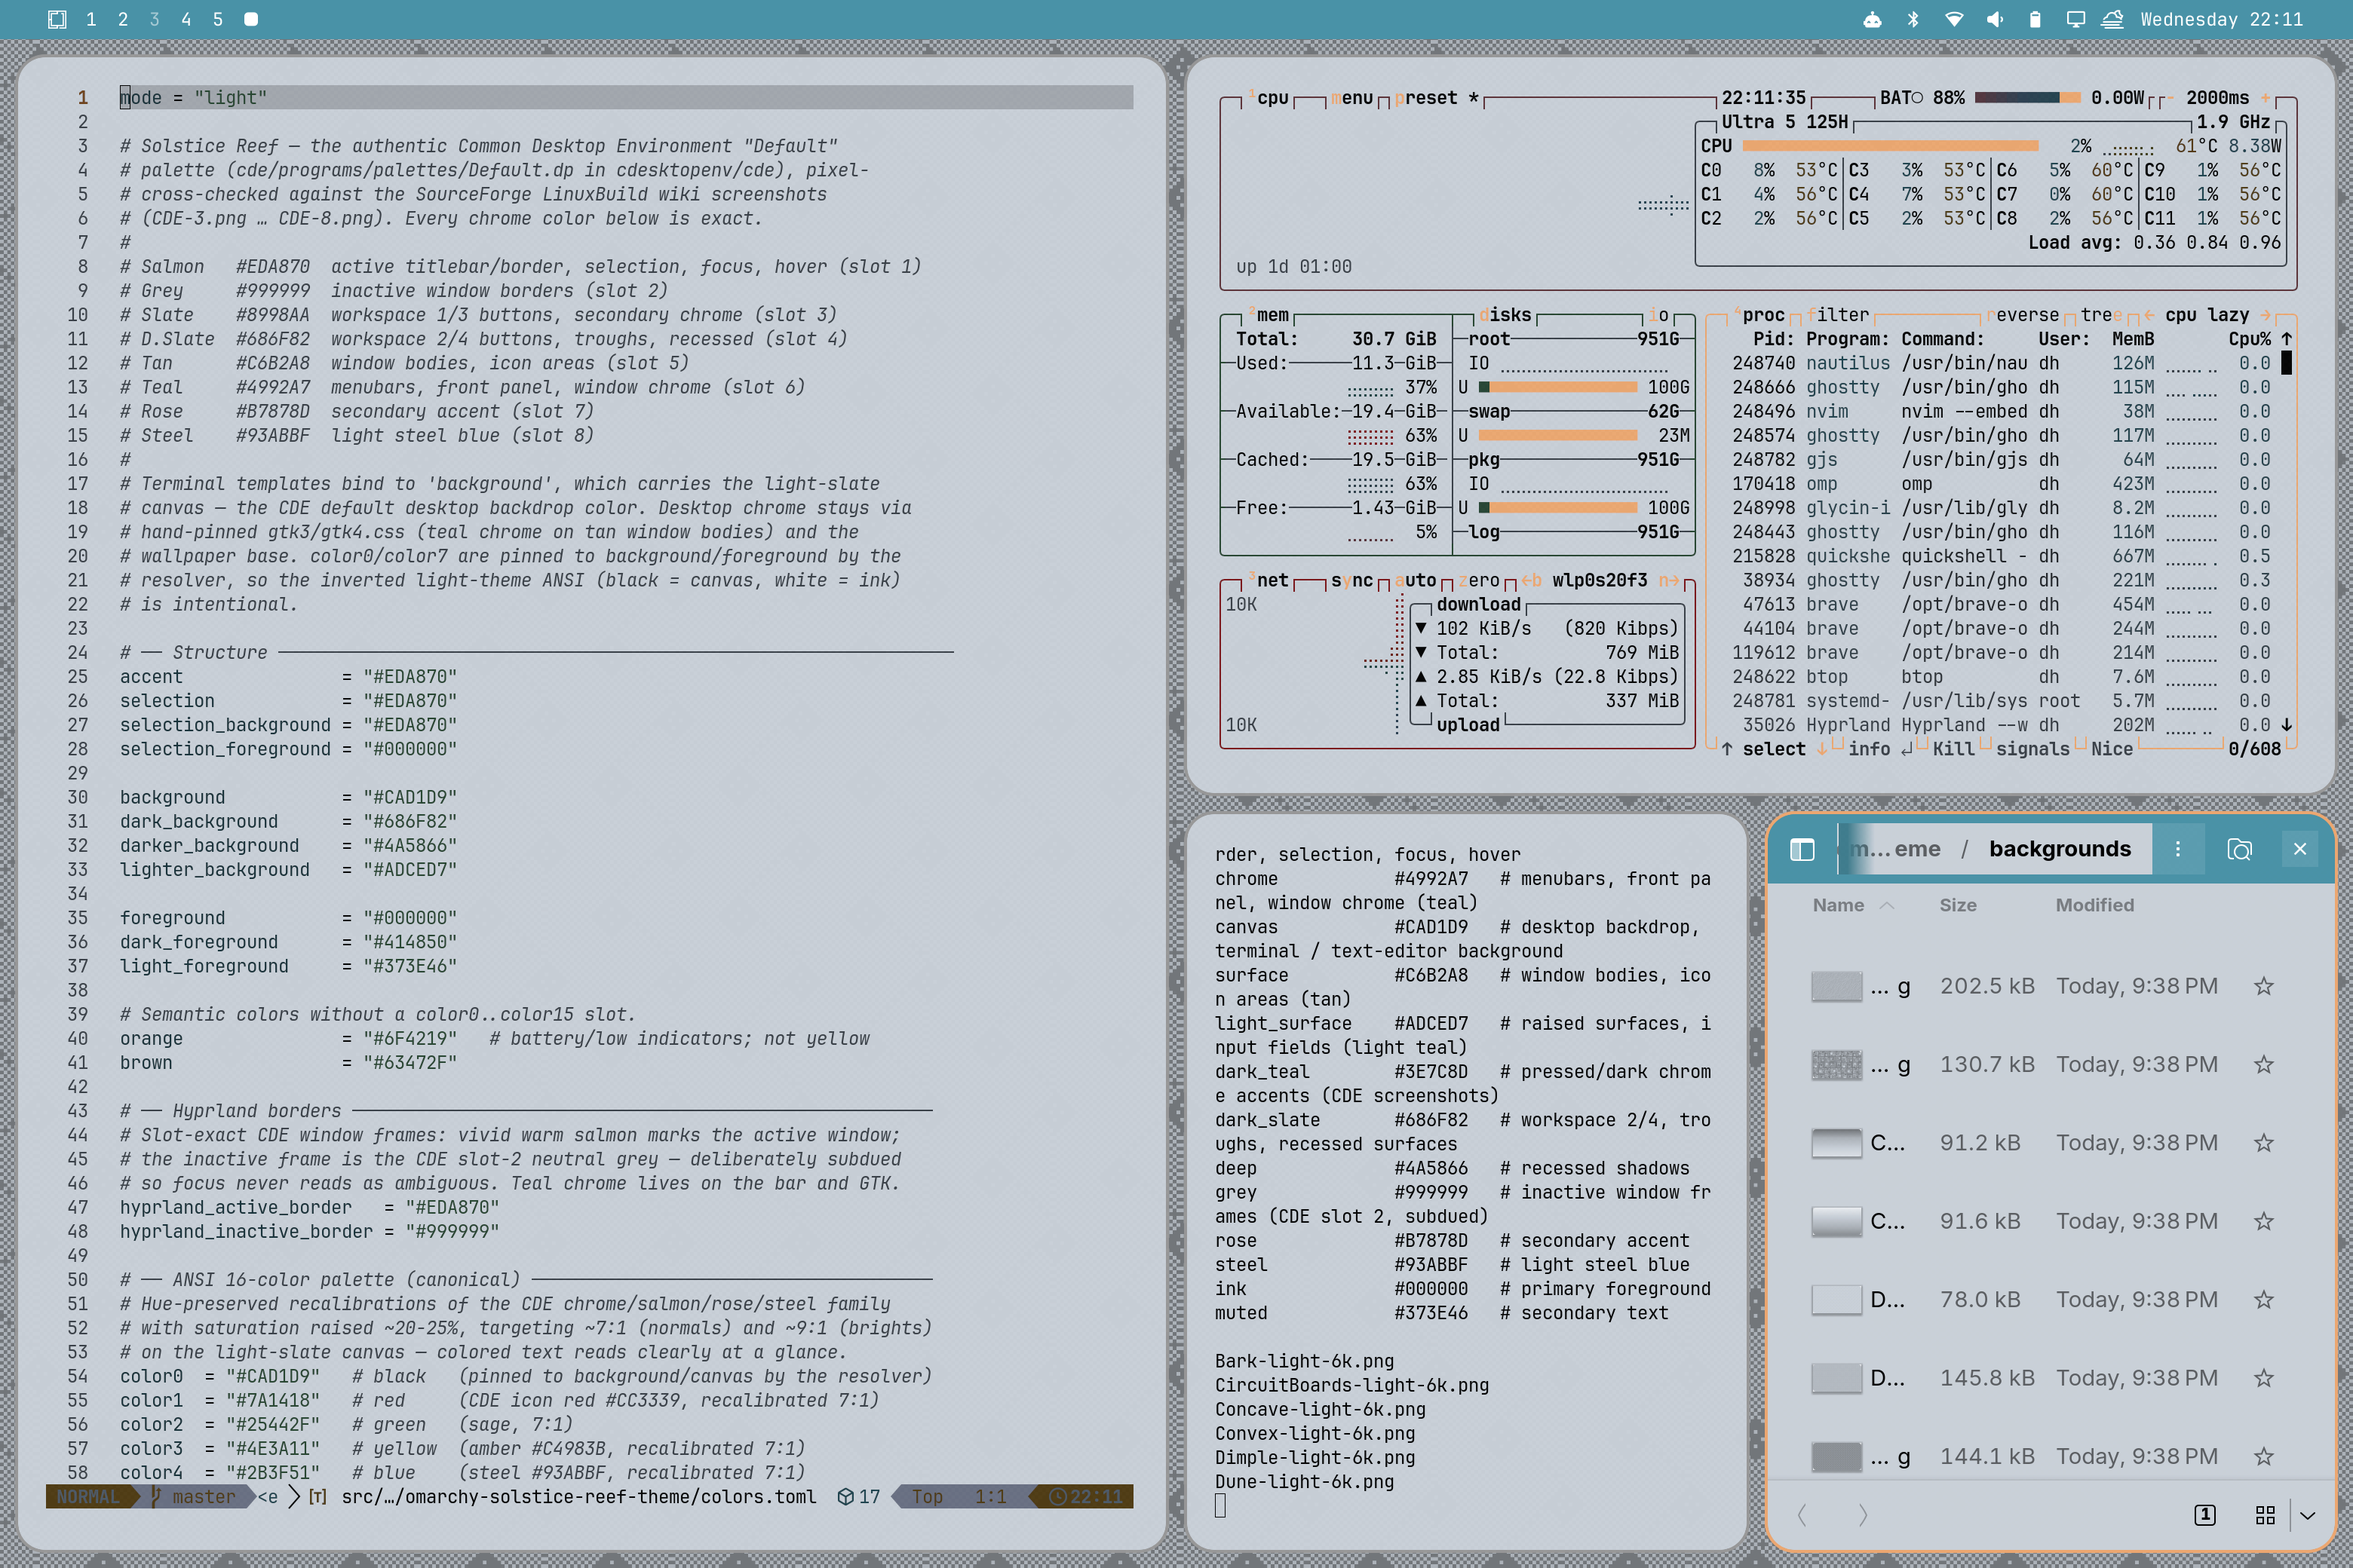
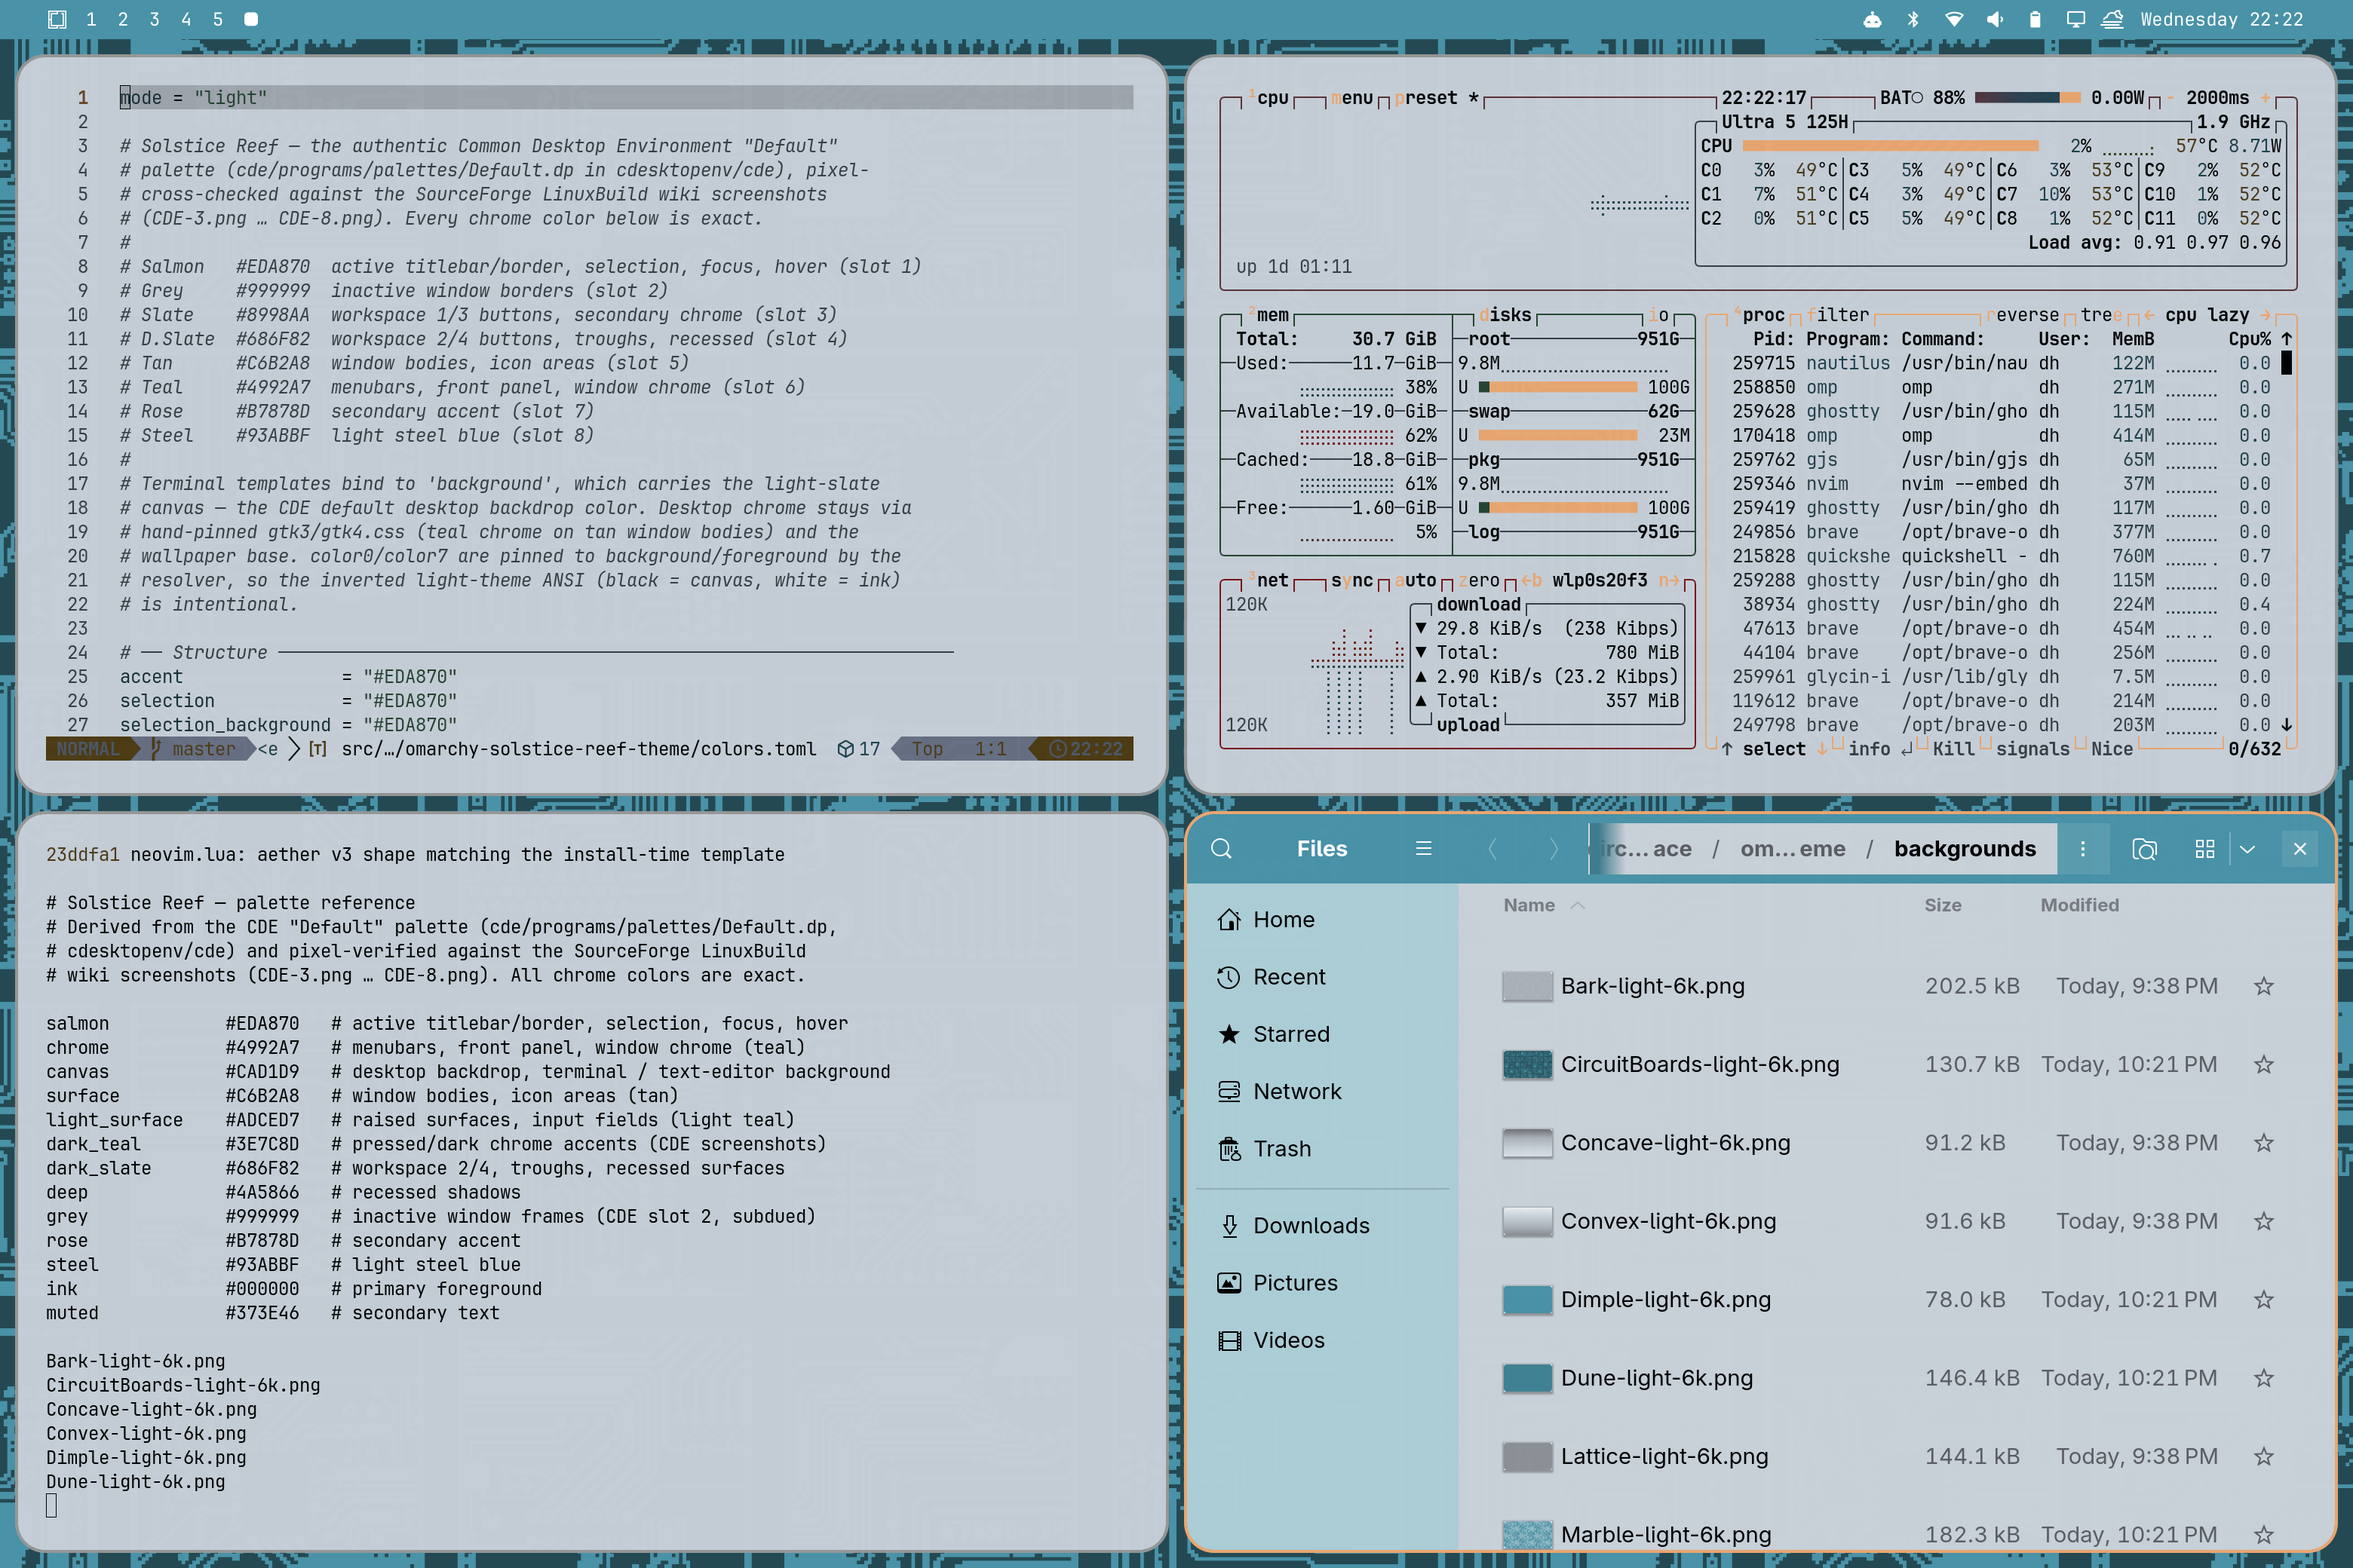
Chrome-based wallpapers, README per family example, sibling-layout preview

diff --git a/README.md b/README.md
@@ -1,16 +1,16 @@
 # Solstice — Reef
 
-The **authentic Common Desktop Environment "Default" palette** as an Omarchy
-theme: teal chrome like reef water, salmon accents like coral, tan window
-bodies and a light-slate canvas — the look every CDE workstation shipped
-with. Every chrome color is taken slot-exact from CDE's own `Default.dp`
-palette file and pixel-verified against the
-[LinuxBuild wiki screenshots](https://sourceforge.net/p/cdesktopenv/wiki/LinuxBuild/).
+An Omarchy theme built on the **original CDE "Default" palette**
+(`Default.dp`): teal chrome like reef water, salmon active borders and
+selection like coral, tan window bodies, and a light-slate canvas.
 
-Fourth member of the Solstice family alongside
-[Daylight](https://github.com/circumspace/omarchy-solstice-daylight-theme),
-[Nightwatch](https://github.com/circumspace/omarchy-solstice-nightwatch-theme)
-and [Crimson](https://github.com/circumspace/omarchy-solstice-crimson-theme).
+Every core color is slot-exact from the palette file every CDE workstation
+shipped with, pixel-verified against the
+[LinuxBuild wiki screenshots](https://sourceforge.net/p/cdesktopenv/wiki/LinuxBuild/).
+See [Solstice Daylight](https://github.com/circumspace/omarchy-solstice-daylight-theme)
+(Solaris 9 capture), [Solstice Nightwatch](https://github.com/circumspace/omarchy-solstice-nightwatch-theme)
+(NsCDE dark companion), and [Solstice Crimson](https://github.com/circumspace/omarchy-solstice-crimson-theme)
+(Crimson4) for the other palettes in the family.
 
 ## Preview
 
@@ -19,7 +19,7 @@ and [Crimson](https://github.com/circumspace/omarchy-solstice-crimson-theme).
 ## Install
 
 ```bash
-omarchy theme install https://git.circum.space/circumspace/omarchy-solstice-reef-theme
+omarchy theme install https://github.com/circumspace/omarchy-solstice-reef-theme
 ```
 
 Then select **Solstice Reef** from the Omarchy theme picker.
@@ -27,25 +27,25 @@ Then select **Solstice Reef** from the Omarchy theme picker.
 Or manually:
 
 ```bash
-git clone https://git.circum.space/circumspace/omarchy-solstice-reef-theme \
+git clone https://github.com/circumspace/omarchy-solstice-reef-theme \
   ~/.config/omarchy/themes/solstice-reef
 ```
 
 ## Palette
 
-| Role | Hex |
-|------|-----|
-| Salmon (active border, selection) | `#EDA870` |
-| Teal (chrome, menubars, front panel) | `#4992A7` |
-| Slate canvas (desktop, terminal) | `#CAD1D9` |
-| Tan (window bodies) | `#C6B2A8` |
-| Light teal (raised surfaces) | `#ADCED7` |
-| Grey (inactive border) | `#999999` |
-| Rose (secondary accent) | `#B7878D` |
-| Ink (foreground) | `#000000` |
+| Role | Hex | Source |
+|------|-----|--------|
+| Salmon (selection, active border) | `#EDA870` | `Default.dp` slot 1, exact |
+| Grey (inactive border) | `#999999` | `Default.dp` slot 2, exact |
+| Slate (workspace 1/3) | `#8998AA` | `Default.dp` slot 3, exact |
+| Dark slate (workspace 2/4, troughs) | `#686F82` | `Default.dp` slot 4, exact |
+| Tan (window bodies) | `#C6B2A8` | `Default.dp` slot 5, exact |
+| Teal (chrome, menubars, front panel) | `#4992A7` | `Default.dp` slot 6, exact |
+| Rose (secondary accent) | `#B7878D` | `Default.dp` slot 7, exact |
+| Steel (light steel blue) | `#93ABBF` | `Default.dp` slot 8, exact |
+| Canvas (terminal, content) | `#CAD1D9` | CDE default backdrop |
 
-The first six map 1:1 to CDE `Default.dp` slots 1, 6, 5 and the derived
-backdrop/input shades. Full 16-color ANSI palette in [`palette.txt`](palette.txt).
+Full provenance in [`palette.txt`](palette.txt).
 
 ## What's themed
 
@@ -53,12 +53,12 @@ backdrop/input shades. Full 16-color ANSI palette in [`palette.txt`](palette.txt
   grey inactive frame (`#999999`) — vivid warm vs subdued neutral, so focus
   is always obvious.
 - **GTK 3 / GTK 4** — teal chrome over tan window bodies, light-slate content,
-  salmon selection; sharp CDE corners. GTK loads user CSS once at startup, so
-  **restart** GTK apps after switching *into or out of* this theme for colors
-  to take.
-- **Terminal** — Ghostty / Alacritty / Kitty / foot palettes from `colors.toml`
-  on the light-slate canvas; ANSI colors calibrated to ~7:1 (normals) and
-  ~9:1 (brights) on the canvas so colored text stays legible.
+  salmon selection; sharp CDE corners (`border-radius: 0`). GTK loads user CSS
+  once at startup, so **restart** GTK apps after switching *into or out of*
+  this theme for colors to take.
+- **Terminal** — Ghostty / Alacritty / Kitty / foot palettes generated from
+  `colors.toml`; terminals sit on the light-slate canvas with ANSI colors
+  calibrated to ~7:1 (normals) and ~9:1 (brights).
 - **Browser chrome** — `chromium.theme` sets the frame tint; apply with
   `omarchy theme set browser` (the policy write needs sudo). For full
   toolbar/tab colors, enable **Use GTK** in the browser's appearance settings —
@@ -69,25 +69,12 @@ backdrop/input shades. Full 16-color ANSI palette in [`palette.txt`](palette.txt
 ## Wallpapers
 
 Fourteen procedurally-generated backdrops in `backgrounds/` (6K), rendered at
-an 8× tile scale from [NsCDE](https://github.com/NsCDE/NsCDE) XPM patterns,
-recolored to the light-slate canvas — the CDE default desktop backdrop under
-teal chrome. Regenerate them with
-[circumspace/scripts `gen-cde-wallpapers --base canvas`](https://github.com/circumspace/scripts).
-
-## Provenance & credits
-
-- Palette source: [`Default.dp`](https://github.com/cdesktopenv/cde/blob/master/cde/programs/palettes/Default.dp)
-  from [cdesktopenv/cde](https://github.com/cdesktopenv/cde).
-- Verification screenshots: the
-  [CDE LinuxBuild wiki](https://sourceforge.net/p/cdesktopenv/wiki/LinuxBuild/)
-  captures (CDE-3 … CDE-8).
-- NsCDE: https://github.com/NsCDE/NsCDE
-
-## Related
-
-- **[Solstice Daylight](https://github.com/circumspace/omarchy-solstice-daylight-theme)** — Solaris 9 CDE light variant.
-- **[Solstice Nightwatch](https://github.com/circumspace/omarchy-solstice-nightwatch-theme)** — NsCDE dark variant.
-- **[Solstice Crimson](https://github.com/circumspace/omarchy-solstice-crimson-theme)** — CDE Crimson4 variant.
+an 8× tile scale from [NsCDE](https://github.com/NsCDE/NsCDE) XPM patterns
+with the Motif colorset derived from this palette's chrome (`bg #4992A7`,
+`ts #ADCED8`, `bs #244953`, `sel #3E7C8D`): **Solyaris, Dimple, Dune, Swirl,
+Squares, Marble, Toronto, SandLight, CircuitBoards, Lattice, Concave, Convex,
+PinStripe, Bark**. Regenerate them with
+[circumspace/scripts `gen-cde-wallpapers`](https://github.com/circumspace/scripts).
 
 ## License
 
